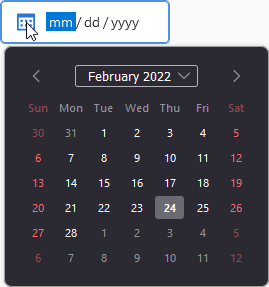
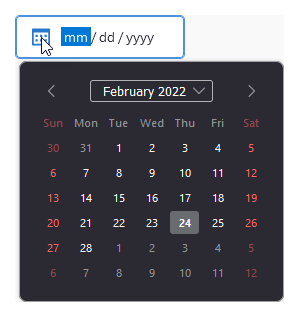
Update blog post “2022-02-15-release-notes-february-2022”

diff --git a/src/_areas/blog/posts/2022-02-15-release-notes-february-2022.md b/src/_areas/blog/posts/2022-02-15-release-notes-february-2022.md
@@ -64,17 +64,29 @@ We've long had some design standards around how a date input component should be
 
 Previously unofficially supported, we've now enhanced ZUI Input to present a date input with a calendar icon. Under the hood, this is still only a `<input type="date" />`. The underlying date picker component that displays is driven by the user agent, so there may be some inconsistencies noticed between a user of Chrome and another of Firefox.
 
-![ZUI date input with Firefox's date picker component.](/images/zui-input-date-firefox.png)
+![ZUI date input with Chrome's built-in date picker component.](/images/zui-input-date-chrome.png)
 
-*Example of ZUI date input with Firefox's date picker component.*
+*Example of ZUI date picker with Chrome's built-in date picker component.*
 
-We also support the [`min`](https://developer.mozilla.org/en-US/docs/Web/HTML/Element/input/date#min) and [`max`](https://developer.mozilla.org/en-US/docs/Web/HTML/Element/input/date#max) attributes with this update.
+![ZUI date input with Firefox's built-in date picker component.](/images/zui-input-date-firefox.png)
+
+*Example of ZUI date input with Firefox's built-in date picker component.*
+
+<docs-note>\
+At the time of this publishing, ZUI date input doesn't pop up the date picker component in Chrome and Edge unless you have Experimental Web Platform features enabled or use Chrome and Edge versions 99+.\
+</docs-note>
+
+We also support the [`min`](https://developer.mozilla.org/en-US/docs/Web/HTML/Element/input/date#min) and [`max`](https://developer.mozilla.org/en-US/docs/Web/HTML/Element/input/date#max) attributes with this update:
+
+```
+<zui-input type="date" value="2022-02-24" min="2022-01-01" max="2022-12-31"></zui-input>
+```
 
 ## Same old spinner design!
 
 You might be questioning why this is newsworthy. Well, we completely rewrote the ZUI Spinner element, to remove a dated legacy dependency.
 
-You shouldn't notice any UI change with this, however the bundle size did drop around 15kB. We now only have one more component remaining that continues to use Polymer: ZUI Tabs. Stay tuned for more on that effort in the future.
+You shouldn't notice any UI change with this, however the bundle size did decrease around 15kB in file size. We now only have one more component remaining that continues to use Polymer: ZUI Tabs. Stay tuned for more on that effort in the future.
 
 ## Documentation updates
 
